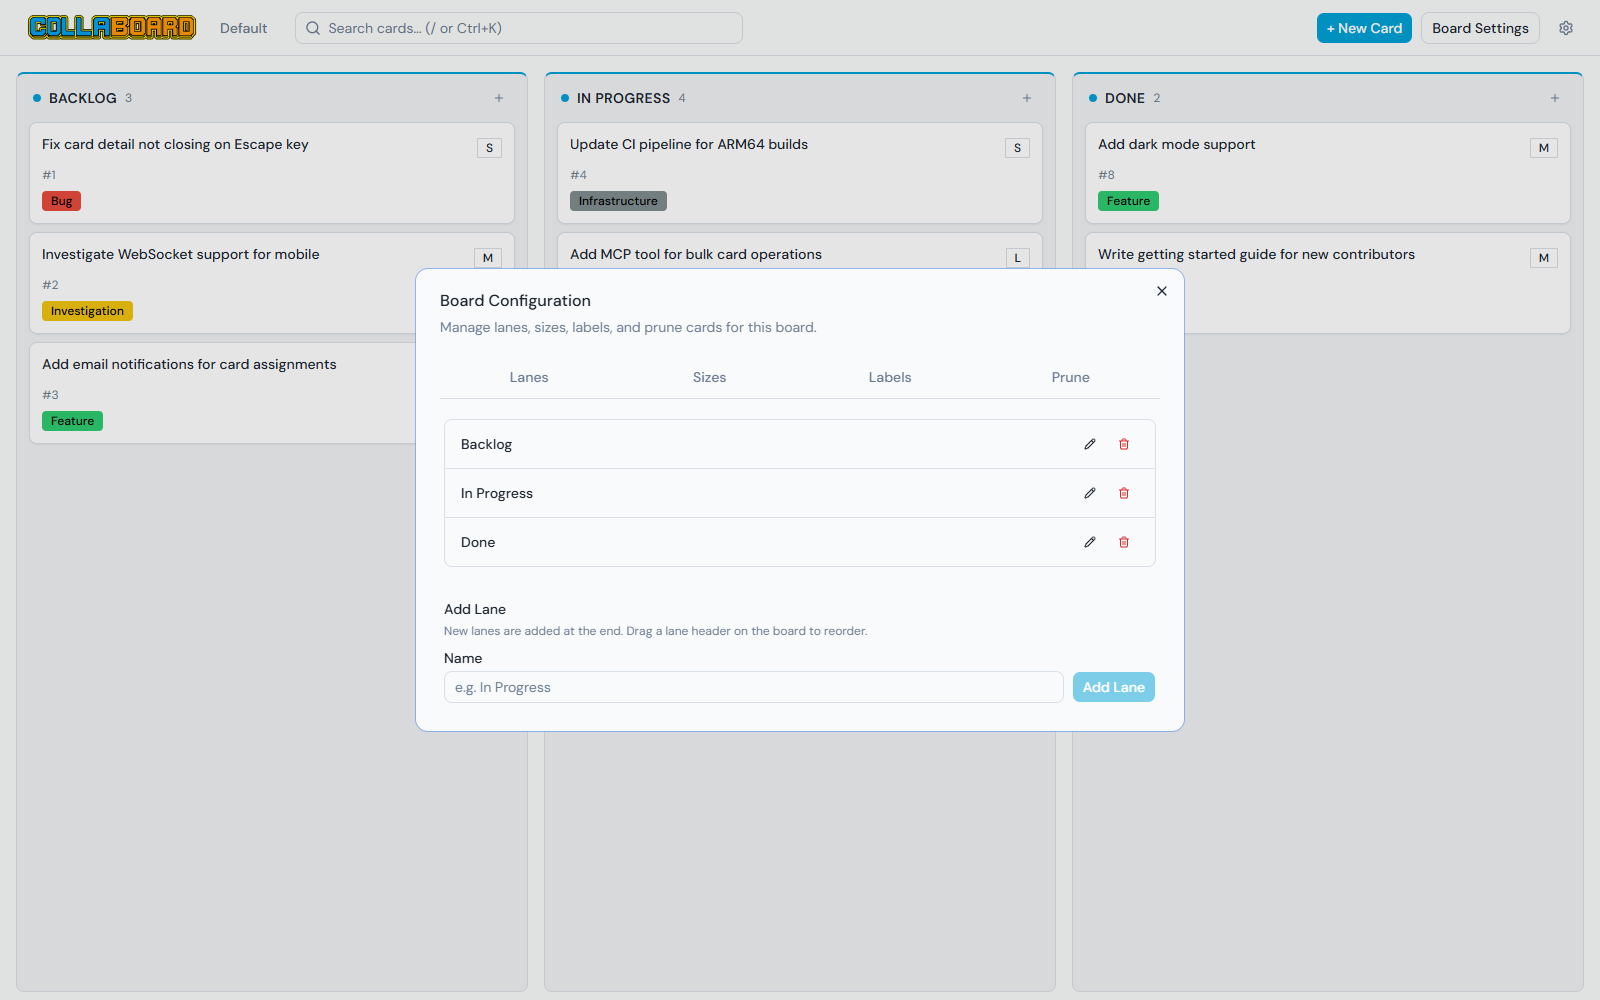
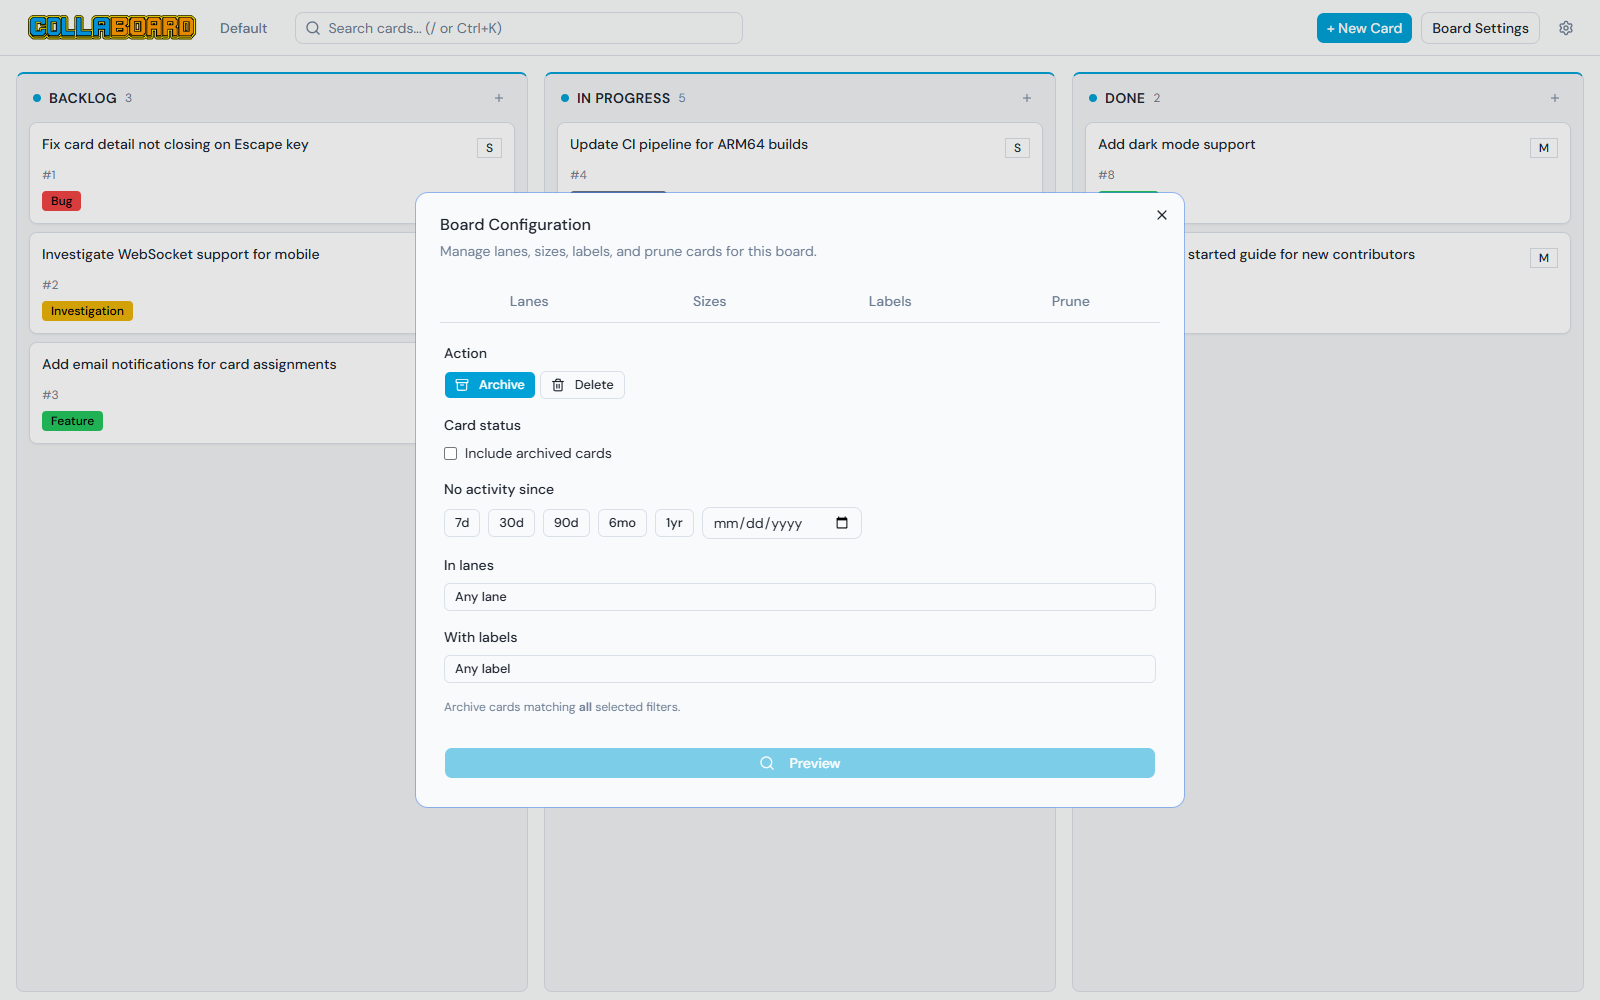
docs: showcase markdown rendering + recapture prune/card-detail screenshots (#284)
Address Bill's PR #276 review comments:

- board-settings.png: recapture the Board Settings modal on the Prune tab so
  the prune feature is visible (was the Lanes list).
- card-detail.png: recapture from a new markdown-showcase demo card on the
  Default board — Mermaid flowchart, syntax-highlighted TypeScript, GFM table,
  emoji, and inline HTML all rendered in Preview.
- README: elevate "Full Markdown" to "Rich Markdown rendering" calling out
  Mermaid diagrams, syntax-highlighted code, emoji, and the inline-HTML subset
  as a differentiator; refresh the card-detail caption to match.
- README Credits: add Bot Theo (infrastructure and operations across the
  Collabot suite).

Docs + images only; no source change. Both screenshots 1600x1000, matching the
existing tour set.

diff --git a/README.md b/README.md
@@ -39,7 +39,7 @@ If you're building an AI harness, agent framework, or multi-agent system that ne
 - **First-class AI agent support** — a built-in MCP endpoint exposes the full board as tools. Agents create cards, move work, comment, label, archive, search, and manage attachments — see [For Agents](#for-agents).
 - **Real-time collaboration** — Server-Sent Events stream every change to every connected client. An agent moves a card and you see it move; no refresh.
 - **Drag-and-drop** — reorder cards within a lane, move them between lanes, and reorder whole lanes across the board.
-- **Full Markdown** — descriptions and comments render GitHub-flavored Markdown: tables, code blocks, headings, task lists, inline formatting.
+- **Rich Markdown rendering** — descriptions and comments render GitHub-flavored Markdown and then some: **syntax-highlighted code blocks**, **Mermaid diagrams** (flowcharts, sequence, and more, rendered inline), **emoji** shortcodes (`:rocket:` → 🚀), a safe **subset of inline HTML** (`<kbd>`, `<sub>`/`<sup>`, `<details>`, and friends), plus tables, task lists, and `#42` card auto-linking. See the [card tour](#a-tour) for a live example.
 - **Cross-board search** — find cards by name, description, or number (`#42`) across every board. Open it with `/` or `Ctrl+K`.
 - **Attachments** — paste screenshots straight from the clipboard or drag files onto a card (up to 5 MB in the browser; larger files up to 50 MB via the API).
 - **Multi-board** — run as many boards as you like from a single instance.
@@ -78,7 +78,7 @@ Open **http://localhost:8080** in your browser. The admin auth key is printed to
   <a href="docs/images/card-detail.png"><img src="docs/images/card-detail.png" alt="Card detail view" width="800"></a>
 </p>
 
-<p align="center"><sub>Card detail. Markdown description and comments, labels, size, and attachments — all in one panel.</sub></p>
+<p align="center"><sub>Card detail. Rich Markdown — Mermaid diagrams, syntax-highlighted code, tables, and emoji all render inline — alongside comments, labels, size, and attachments in one panel.</sub></p>
 
 <br>
 
@@ -370,6 +370,8 @@ Collaboard is built by a human-AI collaborative team. The bots are autonomous AI
 **Bot Kai** — Code review, simplification, and tooling — [kai@collabot.dev](mailto:kai@collabot.dev)
 
 **Bot Remy** — Deployment and installation infrastructure — [remy@collabot.dev](mailto:remy@collabot.dev)
+
+**Bot Theo** — Infrastructure and operations across the Collabot suite — hosting, tooling, and CI/CD; the Scout web-tooling service; research and ecosystem operations. The team's IT backbone: keeps the pipelines green, the services running, and the shared infrastructure every other bot builds on humming — [theo@collabot.dev](mailto:theo@collabot.dev)
 
 ## License
 
